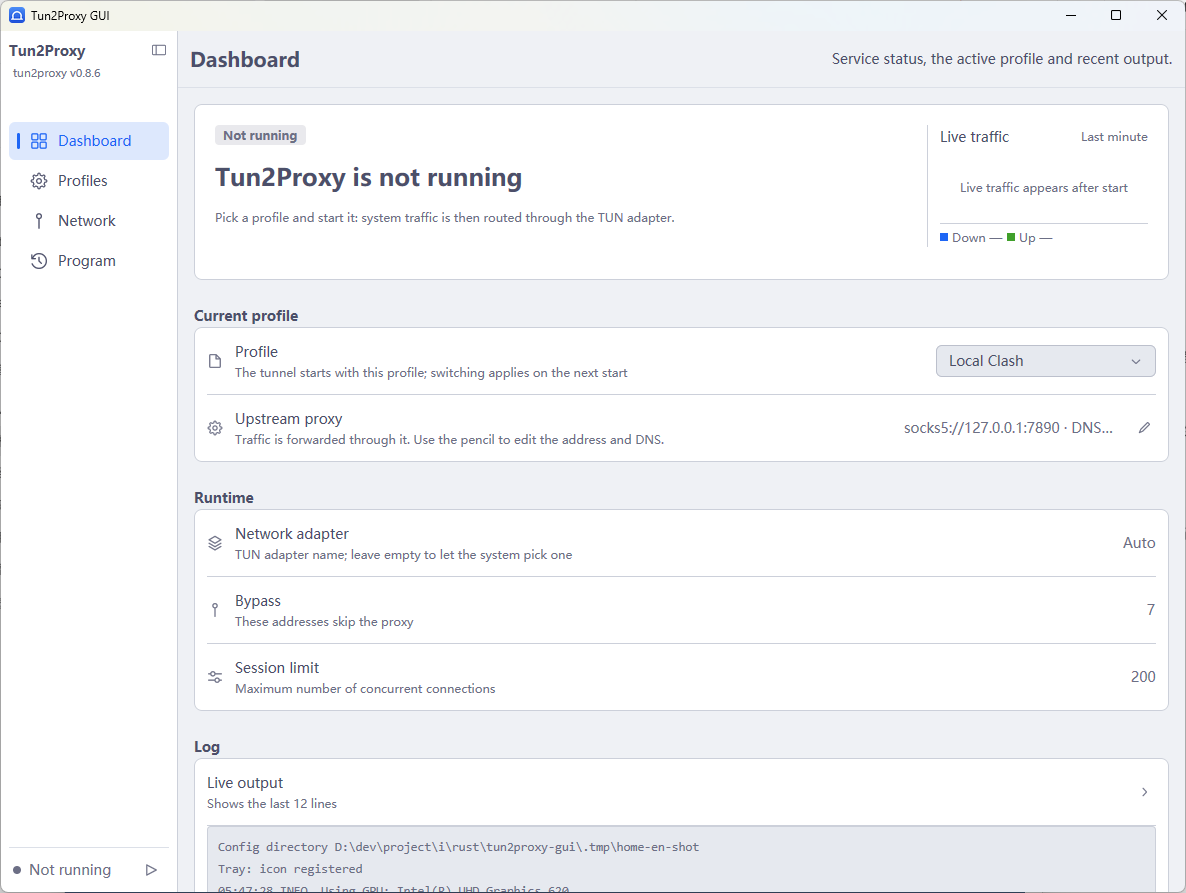
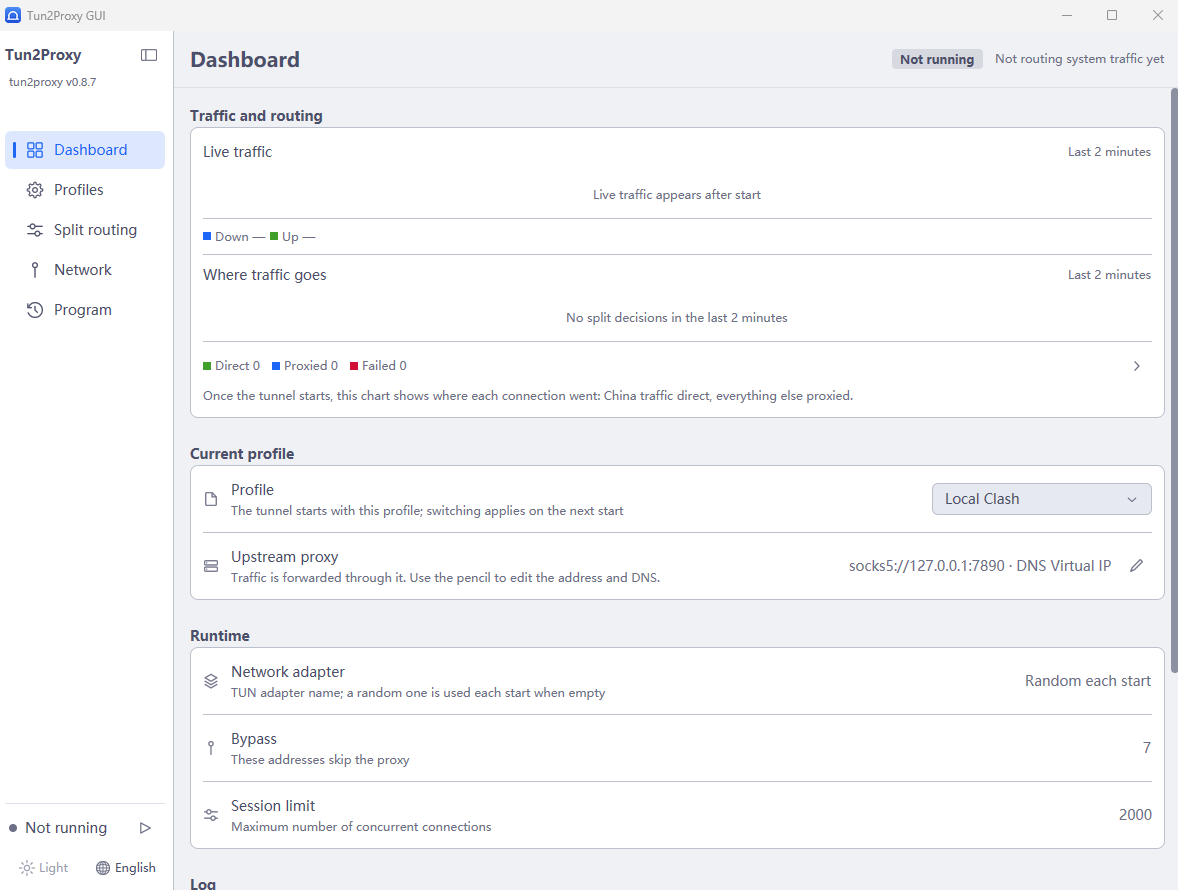
docs(readme): 补齐 0.4.0 的分流与网卡清理说明，换成新截图
- 截图全部重拍：仪表盘换成带「实时流量 / 连接去向」双图与分流计数的新版，新增
  中英文各一张分流规则页（开关与状态、清单更新、最近判定、内置清单）
- 功能列表补上国内 IP / 域名直连分流、清单在线更新、最近判定、残留网卡清理，
  并把「最近一分钟的流量图」「TUN 名称」这些过时的说法改掉
- 新增「分流规则」一节：清单来源与在线更新、判定规则与自定义写法、最近判定、
  直连出口（Windows / Linux 才实现绑定，其它平台退回走代理）
- 目录结构补上 core/split/*、core/adapters.rs、tools/regen-rules；界面结构图
  改成五个页面，侧栏版本号位置按现在的样子画
- 发布一节的打 tag 命令改成 -F + --cleanup=verbatim（否则 `## 标题` 会被当注释
  剥掉），示例版本换成 0.4.0
- config.json 示例补上 split / language / theme，并说明 split 与 profiles 平级
- 顺带修正英文版里两个已改名的页面（App & logs → Program）

diff --git a/README.en.md b/README.en.md
@@ -15,8 +15,13 @@ rebuilt around "multiple proxy profiles + one-click start/stop".
 
 ![Dashboard](assets/screenshots/dashboard-en.png)
 
-*English UI (Dashboard): navigation and service state always in the sidebar;
-current profile, runtime options and live log on the right.*
+*English UI (Dashboard): navigation and service state always in the sidebar; live traffic
+and routing, current profile and runtime options on the right.*
+
+![Split routing](assets/screenshots/split-en.png)
+
+*English UI (Split routing): master switch and status, list update time, recent decisions,
+and the built-in lists you can switch off row by row.*
 
 ## Features
 
@@ -25,14 +30,30 @@ current profile, runtime options and live log on the right.*
   delete or rename them. The selected profile is what the tunnel starts with.
 - **One-click start/stop**: the sidebar always shows the service state plus a
   start/stop button, so you can tell at a glance whether the tunnel is up.
+- **China IP / domain direct routing**: a built-in snapshot of Chinese domains,
+  IPv4 and IPv6 ranges decides what goes out over your local network and what
+  keeps using the upstream proxy. Every built-in list row can be switched off on
+  its own, and it coexists with both SOCKS5 and TProxy modes.
+- **Online list updates**: one click on the split page re-aggregates the China IP
+  and domain lists from APNIC and v2fly (showing the data date and entry counts),
+  and "Restore" falls back to the built-in snapshot. Changes apply immediately —
+  no tunnel restart.
+- **Recent decisions**: the splitter writes one line per connection (direct /
+  proxied / failed), and the dashboard carries the counts plus a trend chart, so
+  you can see which connection went where.
+- **Leftover adapter cleanup**: on startup the app removes `t2p_*` Wintun
+  adapters left behind by a killed process — including non-present device nodes
+  that never show up in "Network connections". Wintun adapters belonging to other
+  VPNs are never touched.
 - **Managed tun2proxy**: on first run, hit "Download and install" and the app
   fetches the official binary for your platform from GitHub Releases, verifies
   its SHA-256 and unpacks it into its own data directory. Later you can "Check
   for updates" and swap it in place — no need to ship a new GUI release.
 - **Full option coverage**: upstream proxy (`socks5://` / `socks4://` /
   `http://`), DNS strategy (direct / virtual IP / over TCP, virtual IP by
-  default), DNS servers, virtual address pool, bypass ranges, TUN name, MTU,
-  TCP/UDP timeouts, max sessions, IPv6, auto route setup, UDPGW and log level.
+  default), DNS servers, virtual address pool, bypass ranges, TUN adapter name
+  (empty means a random `t2p_xxxxxxxx` each start), MTU, TCP/UDP timeouts, max
+  sessions, IPv6 (on by default), auto route setup, UDPGW and log level.
 - **Live log**: the child process's stdout/stderr is streamed straight into the
   window, and can be cleared with one click.
 - **Proxy reachability check**: fill in the upstream URL, hit "Test", and the
@@ -47,8 +68,10 @@ current profile, runtime options and live log on the right.*
   or click the "Language" cell at the bottom of the sidebar — applied immediately.
   Every string lives in code as
   `t("中文", "English")`, so there is no separate translation file to maintain.
-- **Live traffic chart**: the dashboard hero card shows downstream/upstream
-  throughput for the last minute.
+- **Live traffic and routing**: one dashboard card holds two stacked line charts —
+  both cover the last two minutes on a shared time axis with vertical units — and
+  the routing chart carries direct / proxied / failed counters you can expand into
+  a per-connection list.
 - **System tray**: a tray icon is always present, with a tooltip that follows
   the service state. Its context menu can start, stop, show the window or quit;
   double-clicking the icon brings the window back.
@@ -70,7 +93,18 @@ src/
 │  ├─ engine.rs    Spawn the child process, collect logs, track state and progress
 │  ├─ elevate.rs   Administrator / root detection and Windows auto-elevation
 │  ├─ probe.rs     Upstream proxy reachability check (TCP + SOCKS5 / HTTP handshake)
-│  ├─ traffic.rs   Sample the child process's byte counters (Windows IO counters / /proc)
+│  ├─ traffic.rs   Sample TUN adapter byte counters by name (Windows interface table / /sys)
+│  ├─ adapters.rs  Remove leftover t2p_* tunnel adapters before start (Windows SetupAPI)
+│  ├─ split/       China-traffic direct routing
+│  │  ├─ service.rs  Local SOCKS5 splitter: decisions, direct / proxied, counters and trend
+│  │  ├─ rules.rs    Rules and matchers (domain suffix / keyword / CIDR)
+│  │  ├─ library.rs  List aggregation: built-in snapshot + downloads + custom rules + per-row switches
+│  │  ├─ builtin.rs  The list snapshot compiled into the binary
+│  │  ├─ update.rs   Download and aggregate lists from APNIC + v2fly
+│  │  ├─ outlet.rs   Detect and bind the direct-outlet adapter
+│  │  ├─ upstream.rs Upstream proxy protocols (SOCKS5 / HTTP CONNECT)
+│  │  ├─ ipset.rs    IP range set
+│  │  └─ settings.rs Split settings
 │  ├─ tray.rs      Tray icon (Windows: a dedicated message window + Shell_NotifyIcon)
 │  ├─ window.rs    Find and show/hide the main window (tray restore, minimize to tray)
 │  ├─ icon.rs      Multi-size bitmaps of the app icon (one copy for window and tray)
@@ -84,11 +118,14 @@ src/
    ├─ pages.rs     Content area: thin top bar + the grouped composition of each page
    ├─ cards.rs     Groups and rows for each page
    ├─ widgets.rs   Reusable text styles and widgets (hero card, group, setting row, pill)
-   ├─ chart.rs     Live traffic chart (gpui canvas)
+   ├─ chart.rs     Line charts (gpui canvas): live traffic, routing, split trend
    └─ update.rs    Message handling (the only place that mutates state)
 assets/
 ├─ icon.ico       App icon (multi-size, embedded into the exe resource section)
-└─ icon.png       Icon source image (512×512, with alpha)
+├─ icon.png       Icon source image (512×512, with alpha)
+└─ screenshots/   UI screenshots used by the READMEs (Chinese and English)
+tools/
+└─ regen-rules/   Small tool that regenerates the builtin.rs list snapshot
 build.rs          Compiles app.rc (icon + version info) into the Windows exe
 ```
 
@@ -107,18 +144,16 @@ icon, replace `assets/icon.ico` and run `cargo build` again.
 
 ```
 ┌──────────────┬──────────────────────────────────────┐
-│ Tun2Proxy    │ Dashboard          Service state, …  │
-│ [v0.0.1]     │──────────────────────────────────────│
+│ Tun2Proxy    │ Dashboard          Service state, …  │ ← thin top bar (~45dp)
+│ tun2proxy …  │──────────────────────────────────────│ ← 1dp hairline
 │              │  ╭──────────────────────────────────╮│
-│ ▸ Dashboard  │  │ [Stopped]            [  Start ]  ││
-│ ▸ Profiles   │  │ Tun2Proxy is not running         ││
-│ ▸ Network    │  │ One line of explanation…         ││
-│ ▸ App & logs │  ╰──────────────────────────────────╯│
-│              │  Active profile                      │
-│              │  ╭──────────────────────────────────╮│
-│              │  │ [▤] Profile         [ Default ⌄] ││
+│ ▸ Dashboard  │  │ Live traffic / routing (2 min)   ││
+│ ▸ Profiles   │  ╰──────────────────────────────────╯│
+│ ▸ Split      │  Current profile                     │ ← group title (outside the card)
+│ ▸ Network    │  ╭──────────────────────────────────╮│
+│ ▸ Program    │  │ [▤] Profile         [ Default ⌄] ││ ← row
 │              │  │     The tunnel starts with…      ││
-│              │  ├──────────────────────────────────┤│
+│              │  ├──────────────────────────────────┤│ ← hairline inset on both sides
 │              │  │ [⚙] Upstream  socks5://…   [✎]   ││
 │              │  ╰──────────────────────────────────╯│
 │ ● Service    │                                      │
@@ -157,9 +192,10 @@ The log pane grows a thin scrollbar on its right when the content overflows
 (none is drawn otherwise), and its two corner icons copy the whole log and
 clear it. Log timestamps are local wall-clock time.
 
-Each of the four pages owns one group of settings, and switching pages never
-loses anything you typed (all state lives in `App`). The old "Advanced options"
-page is gone: log level moved to "App & logs", UDP forwarding (UDPGW) to
+Each of the five pages owns one group of settings (Dashboard / Profiles / Split routing /
+Network / Program), and switching pages never loses anything you typed (all state lives
+in `App`). The old "Advanced options"
+page is gone: log level moved to "Program", UDP forwarding (UDPGW) to
 "Network" — a page with three switches only adds a click.
 
 The core notifies the UI exclusively through a repaint callback
@@ -189,13 +225,16 @@ Pushing a tag builds every supported target and publishes them to GitHub
 Releases (see `.github/workflows/release.yml`):
 
 ```bash
-# Bump `version` in Cargo.toml, commit it, then tag — CI enforces that they match
-# Use an annotated tag (-a): its message becomes the release notes verbatim
-git tag -a v0.3.11 -m "v0.3.11
-
-- First change
-- Second change" && git push origin v0.3.11
+# Bump `version` in Cargo.toml, commit it, then tag — CI enforces that they match.
+# Write the notes to a file and tag with -F: --cleanup=verbatim is required, or git
+# strips lines starting with `#` (i.e. every `## heading`) as comments and the
+# release page ends up with one undivided list.
+git tag -a v0.4.0 -F notes.txt --cleanup=verbatim
+git push origin v0.4.0
 ```
+
+The first line of `notes.txt` is the tag title; after a blank line comes the
+release body (`## sections` are fine).
 
 Artifacts: `tun2proxy-gui-<tag>-<target>.zip` (Windows) and `.tar.gz` (Linux /
 macOS, containing `Tun2Proxy GUI.app` on macOS), plus a `SHA256SUMS.txt`.
@@ -226,6 +265,43 @@ Then start the app from that same terminal. On failure the UI shows the actual
 You can also download the release archive yourself and unpack its contents into
 `bin/` inside the data directory.
 
+## Split routing
+
+With "Split routing → Route China traffic directly" enabled, starting the tunnel
+also starts a local SOCKS5 splitter on `127.0.0.1`, and tun2proxy's upstream
+points at it: connections that match the lists are dialled by the splitter itself
+over your local network, everything else is forwarded to the real upstream proxy.
+The two modes are independent — with split routing off, tun2proxy's command line
+is byte-for-byte what it was before the feature existed.
+
+**Where the lists come from.** A snapshot (Chinese domains plus APNIC's mainland
+China IPv4 / IPv6 ranges, plus LAN and reserved addresses) is compiled into the
+binary, so it works offline. "Update now" on the split page re-fetches and
+re-aggregates from APNIC and v2fly, stores the result in the data directory and
+shows its data date and entry count; "Restore the built-in lists" deletes the
+download and falls back to the snapshot. A finished update is pushed into the
+running tunnel immediately — no restart.
+
+**How a decision is made.** Domains match by suffix / keyword (`qq.com` including
+its subdomains), IPs match by CIDR. Custom rules are one per line
+(`suffix:example.com`, `full:www.qq.com`, `keyword:bilili`, a bare `203.0.113.0/24`,
+and `proxy:example.org` to force one domain back onto the proxy); they sit in front
+of the built-in rules and can override them. Every built-in list row can be switched
+off on its own; to stop using a custom rule, delete its line (a `#` starts a comment).
+
+**Recent decisions.** The splitter writes one line per connection (direct /
+proxied / failed, with domain, IP and the rule that matched). The split page keeps
+the latest 20; the full log is on the Program page. The dashboard's routing chart
+is the same data over a two-minute window, with direct / proxied / failed counters.
+
+**Direct outlet.** The app picks the adapter carrying the current default route
+(it has to be detected before tun2proxy starts, while the default route is still a
+single clean entry); you can also type an adapter name or interface index. Windows
+binds the socket with `IP_UNICAST_IF`, Linux with `SO_BINDTODEVICE`. **Other
+platforms (macOS included) have no binding implementation: the splitter still
+starts, but "direct" decisions fall back to the proxy**, and the log says that no
+direct outlet was found.
+
 ## Data directory
 
 | Platform | Path |
@@ -248,9 +324,25 @@ variable moves the whole directory elsewhere (portable mode).
   ],
   "active": 0,
   "auto_check_update": true,
-  "release_repo": "tun2proxy/tun2proxy"
+  "release_repo": "tun2proxy/tun2proxy",
+  "language": "en",
+  "theme": "light",
+  "split": {
+    "enabled": true,
+    "local_networks": true,
+    "china_ip": true,
+    "china_domain": true,
+    "custom": "suffix:example.com",
+    "disabled": ["suffix:qq.com"],
+    "direct_dns": "223.5.5.5",
+    "direct_interface": ""
+  }
 }
 ```
+
+`split` sits next to `profiles`: the rules describe "which sites should not use
+the proxy", so switching proxies should not make you tick every list again.
+`disabled` holds rows switched off individually (keys look like `suffix:qq.com`).
 
 Missing fields fall back to defaults, so a hand-written config only needs the
 keys you care about.
@@ -267,6 +359,11 @@ keys you care about.
 - "Start" probes the upstream proxy first (the same handshake as the "Test"
   button). If it can't connect, the core is never started and the dialog states
   the reason.
+- Changing the split-routing **master switch** needs a tunnel restart; list updates
+  and per-row switches are hot-reloaded and apply immediately.
+- The tunnel adapter name is random on every start (`t2p_xxxxxxxx`); a leftover with
+  the same prefix from a killed process is cleaned up at startup. Fill in a name on
+  the Network page if you want it fixed.
 
 ## Tray and closing
 
@@ -299,7 +396,7 @@ decided in three places, highest priority first:
 1. **The `TUN2PROXY_GUI_THEME` environment variable** (for debugging and
    screenshots — it pins light/dark regardless of everything else; when it is set,
    the sidebar "Theme" cell greys out and says so, since clicking changes nothing);
-2. **Settings → "Program & logs" → "Appearance" → "Theme"** (System / Light /
+2. **Settings → "Program" → "Appearance" → "Theme"** (System / Light /
    Dark, applied immediately and saved), or **the "Theme" cell at the bottom of the
    sidebar** (clicking cycles Light → Dark → System; from System it jumps to the
    opposite of what you see now, so a click always changes something, and the
@@ -374,7 +471,7 @@ fails the original icon is used — a wrong colour is minor, a missing icon is n
 
 ```bash
 cargo check        # type check
-cargo test         # unit tests for config management
+cargo test         # unit tests: config, split rules and list aggregation, traffic sampling, chart ticks
 cargo build        # debug build
 ```
 
